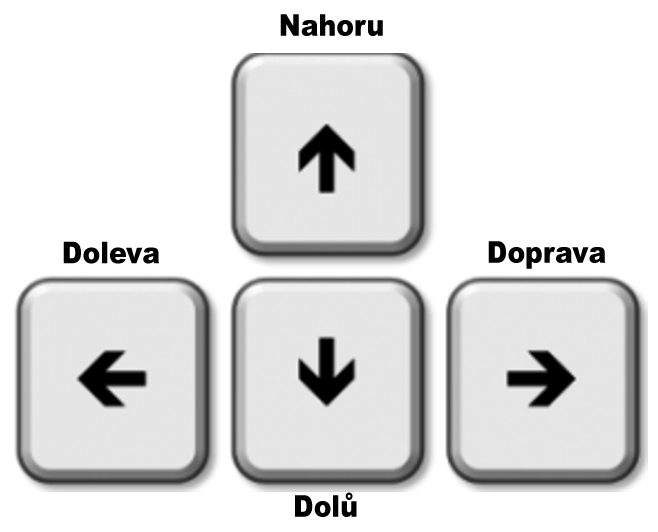
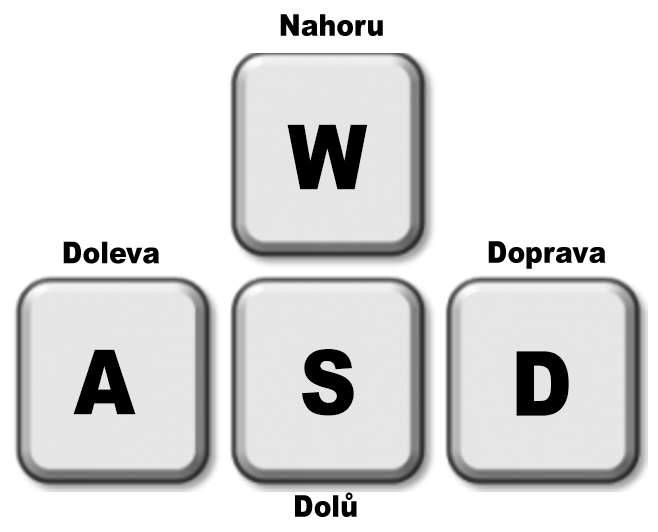
patch 0.09 - start added

diff --git a/js/menu.js b/js/menu.js
@@ -1,3 +1,85 @@
+/*--------------------------Start-------------------------*/
+class Start {
+    constructor(){
+        this.x = canvas.width/2 - 70;
+        this.y = 337;
+        this.width = 140;
+        this.height = 52;
+        this.px = 0;
+        this.py = 0;
+        this.pwidth = 650;
+        this.pheight = 650;
+        this.activation = false;
+        this.stop = false;
+        this.pressed = false;
+    }
+    middle(){
+            this.pwidth++;
+            this.pheight++;
+            this.px--;
+            this.py--;
+            this.pwidth++;
+            this.pheight++;
+    }
+    action(){
+        if (this.activation == true){
+            this.middle();
+            this.middle();
+            this.middle();
+            this.middle();
+            this.middle();
+            this.middle();
+            this.middle();
+            this.middle();
+            this.middle();
+        }
+    }
+    draw(){
+        if (this.activation != true){
+            ctx.beginPath();
+            ctx.fillStyle = "black";
+            ctx.font = '50px Lives';
+            ctx.fillText('START', this.x, 380);
+            ctx.closePath();
+            ctx.stroke();
+        }
+    }
+    drawingStart(){
+        ctx.drawImage(startsprite, this.px, this.py, this.pwidth, this.pheight);
+    }
+    clicked(mouseX, mouseY){
+        if (mouseX >= this.x && mouseX <= this.x + this.width && mouseY >= this.y && mouseY <= this.y + this.height && startCan == true && this.pressed == true) { 
+            this.activation = true;
+            menuCan = true;
+        } 
+    }
+    checkForEnd(){
+        if (control % 150 == 0){
+            cancelAnimationFrame(startF);
+            startCan = false;
+            if(menuCan == true){
+                animateMenu();
+            }
+        }
+    }
+}
+
+const start = new Start();
+
+function startAnimation(){
+    startCan = true;
+    start.drawingStart();
+    start.draw();
+    start.action();
+    if (start.activation == true && startCan == true && control <=149){
+        control++;
+    }
+    start.checkForEnd();
+    startF = requestAnimationFrame(startAnimation);
+}
+startAnimation();
+/*--------------------------Start-------------------------*/
+
 /*--------------------------Menu--------------------------*/
 class Menu {
     constructor(){
@@ -8,7 +90,7 @@ class Menu {
     }
     draw(){
         ctx.beginPath();
-        ctx.fillStyle = "gray";
+        ctx.fillStyle = '#3eb28b';
         ctx.fillRect(this.x, this.y, this.width, this.height);
         ctx.fill();
         ctx.closePath();
@@ -37,6 +119,7 @@ class PlayB {
     clicked(){
         cancelAnimationFrame(menuF);
         menuCan = false;
+        start.activation = false;
         changeSound();
         console.log('Sounds set to: ',hurt.volume);
         animate();
@@ -122,7 +205,6 @@ function animateMenu(){
     menuCan = true;
     menuF = requestAnimationFrame(animateMenu);
 }
-animateMenu();
 /*--------------------------Menu--------------------------*/
 
 /*------------------------Options-------------------------*/
@@ -135,7 +217,7 @@ class Options {
     }
     draw(){
         ctx.beginPath();
-        ctx.fillStyle = "gray";
+        ctx.fillStyle = '#3eb28b';
         ctx.fillRect(this.x, this.y, this.width, this.height);
         ctx.fill();
         ctx.closePath();
@@ -244,7 +326,6 @@ let soundSet  = {
         }
         console.log(volumePrevod);
         sounds.clicked = false;
-        optionsCan = false;
         break1.volume = volumePrevod/10;
         break2.volume = volumePrevod/10;
         hurt.volume = volumePrevod/10;
@@ -256,7 +337,6 @@ let soundSet  = {
     }
     console.log(volumePrevod);
     sounds.clicked = false;
-    optionsCan = false;
     break1.volume = volumePrevod/10;
     break2.volume = volumePrevod/10;
     hurt.volume = volumePrevod/10;
@@ -320,6 +400,8 @@ canvas.addEventListener('mousedown', (event) => {
     optionsb.pressed = true;
     back.pressed = true;
     sounds.pressed = true;
+    start.pressed = true;
+    start.clicked(x, y);
     playb.clickPlayb(x, y);
     optionsb.clickOptionsb(x,y);
     back.clickBackb(x, y);
@@ -330,6 +412,7 @@ canvas.addEventListener('mouseup', () => {
     playb.pressed = false;
     optionsb.pressed = false; 
     back.pressed = false;
-    sounds.pressed = true;            
+    sounds.pressed = false;
+    start.pressed = false;            
 });
 /*-----------------------Keybodard------------------------*/

diff --git a/js/game.js b/js/game.js
@@ -1,13 +1,13 @@
 /*--------------------------Ints--------------------------*/
 const canvas = document.getElementById('canvas1');
 const ctx = canvas.getContext('2d');
-const play = document.getElementById('start')
-const pause = document.getElementById('pause')
-const restart = document.getElementById('restart')
 canvas.width = 650;
 canvas.height = 650;
 let score = 0;
 let gameFrame = 1;
+let control = 1;
+let startF;
+let startCan;
 let timer;
 let menuF;
 let menuCan;
@@ -18,6 +18,7 @@ let soundCounter = 1;
 let volumePrevod = 1;
 let clicked = false;
 let changed = false;
+let fix = true;
 /*--------------------------Ints--------------------------*/
 
 /*-------------------------Sounds-------------------------*/
@@ -33,6 +34,8 @@ gameOver.src = 'https://opengameart.org/sites/default/files/GameOver_2.ogg';
 /*-------------------------Sounds-------------------------*/
 
 /*----------------------Game Objects----------------------*/
+const startsprite = new Image();
+startsprite.src = "GameObj/start.jpg";
 const playersprite = new Image();
 playersprite.src = "GameObj/wiz1.png";
 const bubblesprite = new Image();
@@ -78,10 +81,10 @@ class Player {
         ctx.drawImage(playersprite, this.x, this.y, this.size, this.size);
     }
     move(){
-        if (keys['ArrowRight'] && this.x < 600){this.x += this.speed;}
-        if (keys['ArrowLeft'] && this.x > 50){this.x -= this.speed;}
-        if (keys['ArrowUp'] && this.y > 50){this.y -= this.speed;}
-        if (keys['ArrowDown'] && this.y < 550){ this.y += this.speed;}
+        if (keys['d'] && this.x < 600){this.x += this.speed;}
+        if (keys['a'] && this.x > 50){this.x -= this.speed;}
+        if (keys['w'] && this.y > 50){this.y -= this.speed;}
+        if (keys['s'] && this.y < 550){ this.y += this.speed;}
     }
 }
 const player = new Player();
@@ -200,7 +203,7 @@ function pauseCanvas(){
 /*------------------------Pause--------------------------*/
 
 /*-----------------------Restart-------------------------*/
-restart.addEventListener('click', resetCanvas);
+/*restart.addEventListener('click', resetCanvas);
 function resetCanvas(){
     score = 0;
     lives.const = 3;
@@ -208,13 +211,16 @@ function resetCanvas(){
     console.log(bubblesArray);
     cancelAnimationFrame(timer);
     animate();
-}
+}*/
 /*-----------------------Restart-------------------------*/
 
 /*-----------------------Animate-------------------------*/
 function animate(){
     ctx.clearRect(0,0,canvas.width,canvas.height);
     handleBubbles();
+    menuCan = false;
+    optionsCan = false;
+    startCan = false;
     player.draw(); 
     player.move();
     ctx.beginPath();
@@ -242,7 +248,7 @@ function animateGameOver(){
     handleBubbles();
     player.draw();
     lives.update();
-    gameOver.play();
+    if (fix == true){gameOver.play();}
     menuCan = false;
     optionsCan = false;
     ctx.beginPath();
@@ -253,6 +259,8 @@ function animateGameOver(){
     ctx.font = '50px Pixels';
     ctx.fillText("GAME OVER", canvas.width/2 - 120, canvas.height/2);
     ctx.closePath();
-    ctx.stroke();  
+    ctx.stroke();
+    fix = false; 
+    requestAnimationFrame(animateGameOver);
 }
 /*----------------------Game Over------------------------*/

diff --git a/index.html b/index.html
@@ -14,38 +14,29 @@
         <h1 class="text-center">Catch the rocks</h1>
     </header>
     <main class="container-fluid text-center">
-        <div class="row">
-          <div class="col-6">
+        <div class="row">            
+          <div class="col-lg-12 col-md-12 col-sm-12 col-xs-12">
+              <canvas id="canvas1"></canvas>
+          </div>
+        </div>
+    </main>
+          <div class="col-12" id="controls">
             <h2 class="bg-success p-3 text-center text-white">Ovládání</h2>
             <div class="form-group">
               <div>
+                <h3>Hra se spustí po zmáčknutí tlačítka START na automatu.</h3>
                 <h3>Cílem hry je zastavit kameny pomocí kouzelníka, dřív než narazí do zdi.</h3>
               </div>
             </div>
             <div class="form-group">
-              <div>
-                <img src="GameObj/keyboard.png" alt="klavesnice" width="50%" height="50%">
+              <div class="col-8">
+                <img src="GameObj/keyboard.png" alt="klavesnice" width="240px" height="200px">
               </div>
             </div>
-            <div class="row">
-                  <div class="col-sm-4">
-                    <p><button id="play" class="btn btn-success"></span> Work in progress</button></p>
-                  </div>
-                  <div class="col-sm-4">
-                    <p><button id="pause" class="btn btn-warning"></span> Work in progress</button></p>
-                  </div>
-                  <div class="col-sm-4">
-                    <p><button id="restart" class="btn btn-danger"></span> Restart</button></p>
-                  </div>   
-            </div>
-            
           </div>
-          <!-- Pravý sloupec: Grafické plátno -->
-          <div class="col-6">
-            <canvas id="canvas1"></canvas>
-          </div>
-        </div>
-      </main>
+          
+        
+      
       <script src="js/game.js"></script>
       <script src="js/menu.js"></script>
   </body>

diff --git a/style.css b/style.css
@@ -1,8 +1,23 @@
+.jumbotron {
+    background-color: black;
+}
+main {
+    position: relative;
+}
 #canvas1 {
     width: 650px;
     height: 650px;
     background-image: url("GameObj/borders.png");
     border: 2px solid black;
+}
+#controls{
+    top: 50px;
+    text-align: center;
+}
+h1 {
+    font-family: Lives;
+    font-size: 50px;
+    color: white;
 }
 h3 {
     font-family: Arial, Helvetica, sans-serif;
